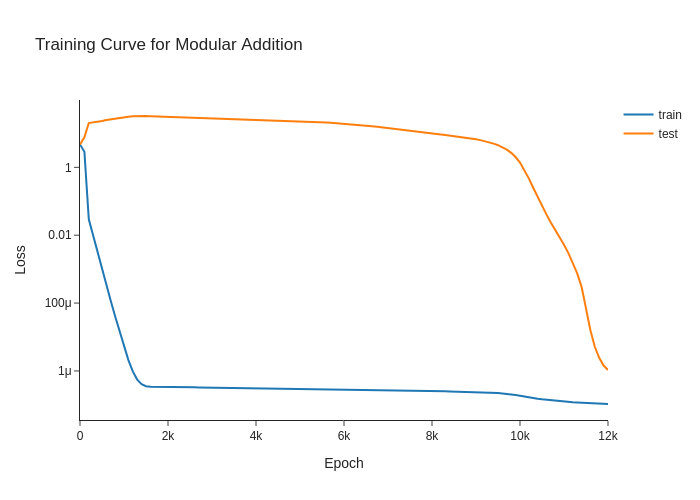
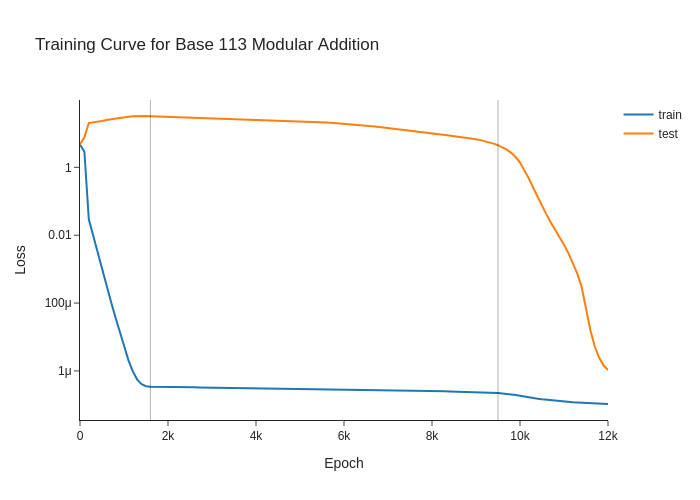
Report

Changed region(s): [[0.24, 0.06, 0.54, 0.12]]

diff --git a/fourier_analysis.py b/fourier_analysis.py
@@ -21,7 +21,7 @@ def main(model_path: str, base: int, device: str) -> None:
 
     # Make a dataset and labels for the model
     dataset, _ = task.make_dataset_and_labels(
-        p=const.MOD,
+        base=const.MOD,
         device=device,
     )
 
@@ -73,19 +73,6 @@ def main(model_path: str, base: int, device: str) -> None:
         fourier_basis, xaxis="Input", yaxis="Component", y=fourier_basis_names
     ).write_image("figures/fourier_basis.png")
 
-    # plot.line(
-    #     fourier_basis[:8],
-    #     xaxis="Input",
-    #     # line_labels=fourier_basis_names[:8],
-    #     title="First 8 Fourier Components",
-    # ).show()
-    # plot.line(
-    #     fourier_basis[25:29],
-    #     xaxis="Input",
-    #     # line_labels=fourier_basis_names[25:29],
-    #     title="Middle Fourier Components",
-    # ).show()
-
     # Multiplying the Fourier Basis by the singular values we can see how the singular values are composed sin and cos functions.
     # The rows correspond to the key frequencies from the previous plots.
     # The additional thing we learn from this is that it's using both the sin and cos of the 4 key frequencies.
@@ -100,6 +87,7 @@ def main(model_path: str, base: int, device: str) -> None:
 
     ## 2D Fourier
     # Show that for a given neuron, it's only activated by sin and cos terms of a given freq as well as constant terms.
+
     neuron_activations = cache["post", 0, "mlp"][:, -1, :]
     plot.imshow(
         fourier_basis @ neuron_activations[:, 0].reshape(base, base) @ fourier_basis.T,
@@ -110,7 +98,8 @@ def main(model_path: str, base: int, device: str) -> None:
         y=fourier_basis_names,
     ).write_image("figures/2d_fourier_transform_of_neuron_0.png")
 
-    ## Neuron Clusters
+    # Neuron Clusters
+    # ---------------
     fourier_neuron_activations = (
         fourier_basis
         @ einops.rearrange(
@@ -123,7 +112,10 @@ def main(model_path: str, base: int, device: str) -> None:
     print("fourier_neuron_activations", fourier_neuron_activations.shape)
 
     neuron_freq_norm = get_neuron_frequency_contributions(
-        base, device, hooked_model, fourier_neuron_activations
+        fourier_neuron_activations=fourier_neuron_activations,
+        num_neurons=neuron_activations.shape[1],
+        base=base,
+        device=device,
     )
     # We see again the key frequencies as lines across the plot.
     # Also most neurons appear to rely only on one neuron.
@@ -145,19 +137,22 @@ def main(model_path: str, base: int, device: str) -> None:
 
 
 def get_neuron_frequency_contributions(
-    base, device, hooked_model, fourier_neuron_activations
-):
+    fourier_neuron_activations: torch.Tensor,
+    num_neurons: int,
+    base: int,
+    device: str,
+) -> torch.Tensor:
     """Determine which key frequencies are most important for each neuron in the model."""
 
     # Initialise the tensor to store the normalized frequency contributions
-    neuron_freq_norm = torch.zeros(base // 2, hooked_model.cfg.d_mlp).to(
+    neuron_freq_norm: torch.Tensor = torch.zeros(base // 2, num_neurons).to(
         device
     )  # 56 (freq) x 512 (neurons in MLP)
 
     # Loop through the frequencies
     for freq in range(0, base // 2):
         # Generate the indices for the constant, sin, and cos terms in the fourier basis for this frequency
-        const_sin_cos_indices = [0, 2 * (freq + 1) - 1, 2 * (freq + 1)]
+        const_sin_cos_indices: list[int] = [0, 2 * (freq + 1) - 1, 2 * (freq + 1)]
 
         # For each combination of sin and cos terms at this frequency, sum the squared activations
         for x in const_sin_cos_indices:
@@ -182,6 +177,11 @@ def get_neuron_frequency_contributions(
 
 
 def make_fourier_basis(base: int, device: str) -> torch.Tensor:
+    """
+    Makes a base x base matrix
+    One axis corresponds to sin and cos of frequencies up to base // 2
+    The other axis represents possible inputs
+    """
     fourier_basis = []
     fourier_basis_names = []
     fourier_basis.append(torch.ones(base))

diff --git a/src/task.py b/src/task.py
@@ -8,18 +8,35 @@ import einops
 import torch
 
 
-def make_dataset_and_labels(p: int, device: str):
+def make_dataset_and_labels(base: int, device: str):
+    """
+    Generate every possible combination of two numbers from 0 to base-1
+
+        Args:
+            base (int): The base for modular arithmetic and number of tokens in the vocabulary.
+            device (str): The device to store the tensors on.
+    """
     # The input to the transformer is a sequence of three tokens |a|b|=|
-    a_vector: torch.Tensor = einops.repeat(torch.arange(p), "i -> (i j)", j=p)
-    b_vector: torch.Tensor = einops.repeat(torch.arange(p), "j -> (i j)", i=p)
+    # torch.arange(base) creates a tensor of numbers from 0 to base-1 e.g. [0, 1, 2, 3, 4, ...]
+    # einops.repeat repeats the tensor along a new dimension, then squashes it back to 1D in two
+    # different ways to create the permeations of the numbers.
+    # [1, 2, 3,] -> [[1, 2, 3], [1, 2, 3], [1, 2, 3]] -> [[1, 1, 1, 2, 2, 2, 3, 3, 3]]
+    a_vector: torch.Tensor = einops.repeat(torch.arange(base), "i -> (i j)", j=base)
+    # [1, 2, 3,] -> [[1, 2, 3], [1, 2, 3], [1, 2, 3]] -> [[1, 2, 3, 1, 2, 3, 1, 2, 3]]
+    b_vector: torch.Tensor = einops.repeat(torch.arange(base), "j -> (i j)", i=base)
 
     # We'll use 0 to p-1 as numbers, and p as the token for the = sign.
-    equals_vector: torch.Tensor = einops.repeat(torch.tensor(p), " -> (i j)", i=p, j=p)
+    equals_vector: torch.Tensor = einops.repeat(
+        torch.tensor(base), " -> (i j)", i=base, j=base
+    )
 
+    # Combine the three vectors into a dataset tensor.
     dataset: torch.tensor = torch.stack([a_vector, b_vector, equals_vector], dim=1).to(
         device
     )
-    labels: torch.tensor = (dataset[:, 0] + dataset[:, 1]) % p
+
+    # Calculate the answers, the sum of the first two numbers modulo p.
+    labels: torch.tensor = (dataset[:, 0] + dataset[:, 1]) % base
 
     return dataset, labels
 
@@ -41,8 +58,10 @@ def make_train_and_test_data(
     """
     dataset, labels = make_dataset_and_labels(p, device)
 
+    # Set the random seed for reproducibility.
     torch.manual_seed(data_seed)
 
+    # Randomly select the data and labels.
     indices: torch.Tensor = torch.randperm(p**2)
     cutoff: int = int(p**2 * training_fraction)
     train_indices = indices[:cutoff]

diff --git a/plot_training_losses.py b/plot_training_losses.py
@@ -1,0 +1,48 @@
+import numpy as np
+import plotly.graph_objects as go
+import plotly.express as px
+import torch
+
+from src import const
+from src import plot
+
+
+def plot_training_losses(base: int, save_path: str) -> None:
+    # Load the data from the file saved during training
+    saved: dict = torch.load(save_path)
+    train_losses = saved["train_losses"]
+    test_losses = saved["test_losses"]
+
+    # Create the x-axis
+    x = np.arange(0, len(train_losses), 100)
+
+    # Down-sample the data for plotting, taking every 100th value.
+    y1 = train_losses[::100]
+    y2 = test_losses[::100]
+
+    fig = go.Figure(
+        data=[
+            go.Scatter(x=x, y=y1, name="train"),
+            go.Scatter(x=x, y=y2, name="test"),
+        ],
+        layout={
+            "xaxis": {"title": "Epoch"},
+            "yaxis": {"title": "Loss", "type": "log"},
+            "title": f"Training Curve for Base {base} Modular Addition",
+            "template": "simple_white",
+        },
+    )
+
+    fig.add_vline(x=1_600, line_width=1, line_dash="solid", line_color="black")
+    fig.add_vline(x=9_500, line_width=1, line_dash="solid", line_color="black")
+
+    # Save the plot as a png and csv (for use in LateX or Typst)
+    fig.write_image("figures/log_loss.png")
+    plot.line_to_csv(fig, "figures/log_loss.csv")
+
+
+if __name__ == "__main__":
+    plot_training_losses(
+        base=const.MOD,
+        save_path=const.MODEL_SAVE_PATH,
+    )

diff --git a/src/model.py b/src/model.py
@@ -9,12 +9,12 @@ from typing import Final
 from transformer_lens import HookedTransformerConfig, HookedTransformer
 
 
-def get_hooked_transformer(p: int, device: str):
+def get_hooked_transformer(base: int, device: str):
     """
     Returns a HookedTransformerModel instance with the specified configuration.
 
     Args:
-        p (int): The number tokens in the vocabulary.
+        base (int): The modular base and number tokens in the vocabulary.
         device (str): The device to use for the model. "cpu" or "cuda".
 
     Returns:
@@ -28,8 +28,8 @@ def get_hooked_transformer(p: int, device: str):
         d_mlp=512,
         act_fn="relu",
         normalization_type=None,
-        d_vocab=p + 1,
-        d_vocab_out=p,
+        d_vocab=base + 1,  # +1 for the equals sign
+        d_vocab_out=base,
         n_ctx=3,
         init_weights=True,
         device=device,

diff --git a/basic_analysis.py b/basic_analysis.py
@@ -17,7 +17,7 @@ def main():
 
     # Make a dataset and labels for the model
     dataset, labels = task.make_dataset_and_labels(
-        p=const.MOD,
+        base=const.MOD,
         device="cpu",
     )
 
@@ -116,6 +116,7 @@ def plot_attention_patterns(cache, P: int):
         xaxis="b",
         yaxis="a",
         facet_col=0,
+        facet_col_wrap=3,
     ).write_image("figures/first_5_neuron_activations.png")
 
 

diff --git a/src/utils.py b/src/utils.py
@@ -9,7 +9,7 @@ def load_model(
 ) -> transformer_lens.HookedTransformer:
     saved: dict = torch.load(path)
     hooked_model: transformer_lens.HookedTransformer = model.get_hooked_transformer(
-        p=mod, device=device
+        base=mod, device=device
     )
 
     hooked_model.load_state_dict(saved["model"])

diff --git a/report.md b/report.md
@@ -1,0 +1,132 @@
+# BlueDot AI Alignment Introduction Project
+
+I undertook this project as part of the BlueDot ...
+
+## Aims
+My aim during this project was to teach myself the basics of Mechanistic Interpretability. To this end, I recreated the code for a recent paper, _Progress Measures for Grokking via Mechanistic Interpretability_, by Neel Nanda et al (https://doi.org/10.48550/arXiv.2301.05217). The paper also has a great walkthrough video, and code examples in the form of a Google Colab making it an excellent learning resource. 
+
+The paper in question trains a simple transformer network to do base 113 modular arithmetic. The goal of the exercise is to understand how the networks implements the algorithm. 
+
+In this document, I'll detail the explanation. This will mostly be my rewording of the original paper and resources. I aim to make this as accessible as possible. I will also add my own thoughts and commentary. 
+
+In summary the objectives are: 
+1. Train a transformer to do base 113 modular arithmetic. I'll use snippets from the provided Colab in places but I want to write and structure the code to be clean and readable. 
+2. Learn the basics of the TransformerLens Python library
+3. Use TransformerLens to inspect the weights and activations for different inputs of the network. 
+4. Infer from that data how the network is implementing the algorithm
+
+## Motivations
+Why do we care? Transformers are the basic building blocks for models like GPT. Understanding how and why they produce the results could be hugely useful for AI Safety. Understanding what different parts of the model do could allow us to delete harmful information from the model eliminating "jailbreaking", detect when a model is uncertain, or detect sycophantic or subversive answers. 
+
+Why base 113 modular arithmetic? It's a simple enough problem that even a tiny transformer can implement it (I'll show later that the model doesn't even use its full capacity). This makes studying the problem tractable. 
+
+## Setup
+
+The model is structured like this (the diagram flows from bottom-to-top):
+
+![Model](./figures/model_high_level.png "Model")
+
+This figure shows a more detailed view, including all the matrices and how they are multiplied together. Matrices are shown in blue boxes. Dimensions in white. 
+
+![Model architecture](./figures/model.png "Model architecture")
+
+The boxes on the left-hand side represent the main blocks of the model. The middle shows the details of the model. The right-hand side is a simplified version made by combining all the matrix multiplication. For now, we'll focus on the middle.
+
+There are three inputs to the model: the two numbers represented by "a" and "b" and the "=" sign. These can be seen at the bottom. The numbers are represented by "one-hot" vectors. So  "2" would be "[0, 1, 0, ..., 0, 0]. The dataset used to train the model is simply every possible combination of two numbers between 0 and 112 and the labels are the modular sum. I generate all of this in the same way as the paper in [src/task.py](./src/task.py).
+
+The output is a single 113 1D vector of logits. The element with the highest value is the answer, so 1 + 1 might look like [ 0.00232, 0.9812, 0.0001, ...]. 
+
+The model has one transformer layer with 4 attention heads. It's defined in [src/model.py](./src/model.py). Some things to note are the model is a HookedTransformer from the TransformerLens library. This allows us to access the internal weights at each stage easily, and to cache activations (i.e. see what each neuron output for a given input to the model). Also, normalization is turned off to simplify the problem as per the paper. 
+
+Going back to the right-hand view, the key takeaway from this diagram is that much of the complexity shown in the middle column can be simplified. Modular arithmetic is a non-linear operation. Matrices represent linear transformations, and multiplying matrices simply combines them into another linear operation. As such, the two sections it will be worth focusing on are the attention mechanism, and the MLP (with non-linear RELU activation function).
+
+## Training the Model
+
+My code to train the model is in [notebooks/train.ipynb](./notebooks/train.ipynb), so it could be run on Google Colab to make use of their GPUs. It saves the model to the Colab session, I then downloaded the saved model to the [persist](./persist/) folder and loaded it for each analysis. 
+
+The below figure shows the training and test losses for the model. It's trying to make the loss as small as possible. The "train" line is when we evaluate loss on only the examples we show it in training, the "test" line is when it's evaluated on examples it never sees during training. 
+
+![Train and test loss](./figures/log_loss.png "Train and test loss")
+
+We can see three regions to this graph, I've added vertical lines to separate them. In the left-most, the model learns to memorize the training data. In the right-most it figures out the algorithm and begins to be able to generalize to the unseen cases in the test data. It's worth noting the y-axis is a log scale which somewhat hides the fact the model does make progress towards the general solution in the middle region; there is a slope that is being flattened by the log scale. This graph shows the model is "grokking" where an emergent ability appears if we train it for long enough. Note, the model I train here uses the same parameters as the paper, and they were chosen to make the model grok on this simple task. In larger models like GPT3/4 we see this with abilities like spatial reasoning. (This corresponds to section 5.2 of the original paper).
+
+## Analysis
+
+### Embeddings
+
+Starting from the inputs, I first use Singular Value Decomposition (as simple as calling `torch.linalg.svd()`) on the embedding matrix. This is the 113 x 128 matrix the 113 dimension one-hot vector is multiplied by to give us the 128 input to the transformer attention block. The one-hot vector essentially "looks up" a row in the embedding vector. 
+
+![Principal Components of the embedding matrix](./figures/principal_components_on_the_input.png "Principal Components of the embedding matrix") 
+
+From examining the principal components, it appears that most resemble random noise, but there's some structure to the first few components shown on the left. 
+
+Looking at the singular values, this is confirmed, the first 8-10 dimensions appears to be more important than the rest. 
+
+![Singular Values of the embedding matrix](./figures/singular_values.png "Singular Values of the embedding matrix")
+
+Zooming in on those components reveals the first clue. 
+
+![First 10 principal components of the embedding matrix](./figures/principal_components_on_the_input_most_important.png "First 10 principal components of the embedding matrix")
+
+They appear highly periodic. 
+
+In summary, the network has learned an embedding matrix during training that converts the one-hot representation of the inputs a and b to a 128 dim vector. Of that vector, it seems to only use the first 8-10 dimensions, and each of those dimensions appears to be a repeating pattern. 
+
+Given we have a periodic pattern, a natural tool for examining it is Fourier analysis. The core idea behind it is that any wave can be represented by adding sin waves of different frequencies together. In the paper and walkthrough, they make a "Fourier basis" matrix and do this by hand. For those (like me) not as familiar with the maths of how it works, libraries like `scipy` make doing an analysis very simple 
+
+![Fourier Analysis of the first 8 principal components of the embedding matrix](./figures/key_frequencies.png "Fourier Analysis of the first 8 principal components of the embedding matrix")
+
+This graph shows that the repeating patterns seen in the embedding matrix are made up of sin waves of only 4 frequencies. 
+
+![Fourier Analysis of the first 8 principal components of the embedding matrix](./figures/key_frequencies_by_singular_value.png "Fourier Analysis of the first 8 principal components of the embedding matrix")
+
+Going further and plotting each dimension independently shows some are "pure" (just a sin wave of a single frequency) and some are mixed. 
+
+In the walkthrough, the authors create a "Fourier basis" matrix. 
+
+![Fourier Basis Matrix](./figures/fourier_basis.png "Fourier Basis Matrix")
+
+The rows of this matrix are pairs of sin and cos waves at increasing frequencies. (It also looks really pretty). 
+We can pre-multiply this matrix with matrices from our model, to do the Fourier analysis.
+
+![Fouier Basis @ embedding matrix](./figures/embedding_in_fourier_basis.png "Fouier Basis @ embedding matrix")   
+
+The rows corresponding to the same key frequencies seen from the `scipy` Fourier analysis show up. 
+
+### Attention Heads
+
+The TransformerLens library allows us to cache values from points throughout the model for every combination of inputs, a and b (every possible combination of two numbers from 0 to 112). 
+
+We can use this to look at the next step of the model, the attention heads. 
+
+![Attention from 'a' to '=' for each head](./figures/attention_for_each_head_from_a_to_equals.png "Attention from 'a' to '=' for each head")
+
+Here too, we see the highly periodic pattern. Looking at just the first head:
+
+![Attention from 'a' to '=' for head 0](./figures/attention_for_head_0_from_a_to_equals.png "Attention from 'a' to '=' for head 0")
+
+This is showing us how the "importance" of the value of "a" (as determined by the first head of 4) varied for all combinations of "a" and "b". 
+
+### Neuron Activations
+
+Looking at the first 5 of the 512 neurons in the MLP layer, we see more of the periodic patterns. 
+
+![First 5 neuron activations](./figures/first_5_neuron_activations.png "First 5 neuron activations")
+
+Using the same Fourier basis matrix, we can do a 2D Fourier analysis of the neuron activations: 
+
+![2D Fourier Analysis of Neuron 0](./figures/2d_fourier_transform_of_neuron_0.png "2D Fourier Analysis of Neuron 0")
+
+We can see that this neuron's activations correspond to combinations of sin(ωa) cos(ωa) where ω 45, one of the key frequencies we identified earlier. 
+
+## Putting it all together
+These analyses show us how the network is doing the modular arithmetic. 
+1. The embedding matrix converts the one-hot vectors into the form of sin(ωa),cos(ωa),sin(ωb),cos(ωb) for 4 key frequencies ω
+2. The attention and MLP layers combine those sin and cos waves. The combination is equivalent to a trig identity sin(ωa)cos(ωb)+cos(ωa)sin(ωb) -> sin(ω(a+b)), i.e. the whole operation is equivalent to adding the angles a and b together as angles. 
+3. Then unembedd operation uses another trig identity to produce the output 113 dim vector. Each element is equivalent to the cos(ω(a+b-c)) where c is the index fo that element. As such, they range between -1 and 1 
+
+## Improvements I would make with more time
+I'd attempt to show how the model is doing the trig identities in more detail. The paper does this in 4.2, but I'd love to find a more graphical way to show that's what's happening. 
+
+## Reflections
+This project gave me an appreciation for the challenge of Mechanistic Interpretability. This was an extremely simple toy problem, and the simplest model possible. It has 1 layer, complicating features like layer norms were turned off, it had small dimensions. Picking apart how it was implementing the task was a time-consuming process even with the walkthrough. The approach of using frequency (Fourier) analysis was based upon observing patterns in the model's matrices. That's not something we can do with 7 billion parameter models. Furthermore, the method of frequency analysis is specific to _this_ problem, it only works because modular arithmetic can be viewed as "clock" arithmetic, going around on a circle. Additionally, this challenge was simple enough that the model had excess parameters (see the section on the embeddings, using only 8 of the 128 available dimensions). When this isn't the case (as with large language models), they 
